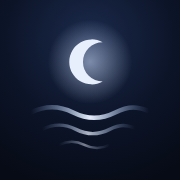
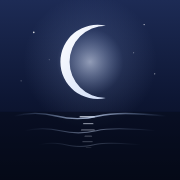
阿衍 v10：新图标「夜江明月」——大一点的月亮、光晕、水里的月影

Changed region(s): [[0.0, 0.0, 1.0, 0.5556], [0.1667, 0.5833, 0.8333, 0.8333], [0.1111, 0.4444, 0.1389, 0.4722]]

diff --git a/sw.js b/sw.js
@@ -1,5 +1,5 @@
 // 改了页面就把版本号加 1，手机上才会换新的
-const CACHE = 'ayan-v9';
+const CACHE = 'ayan-v10';
 const SHELL = ['./', 'index.html', 'manifest.webmanifest', 'icon.svg', 'icon-180.png', 'icon-192.png', 'icon-512.png'];
 
 self.addEventListener('install', e => {
